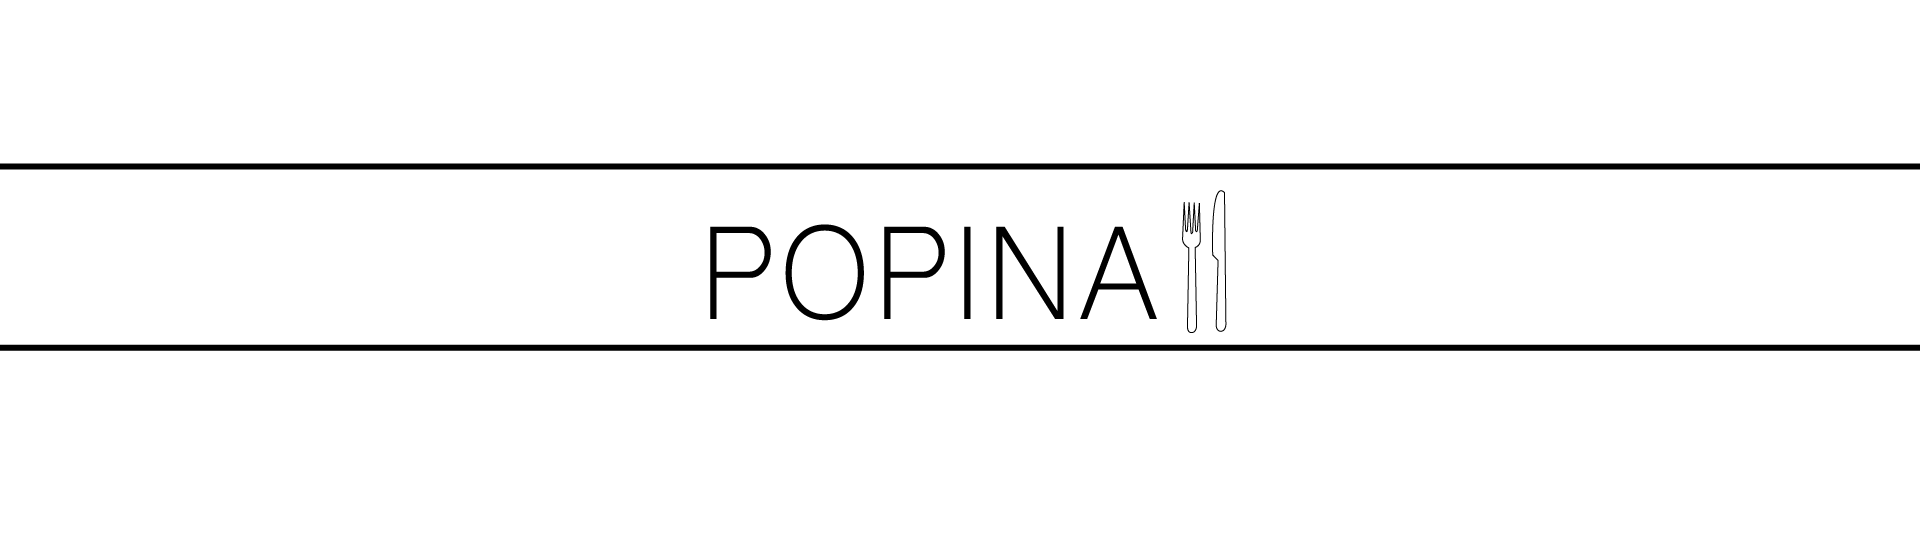
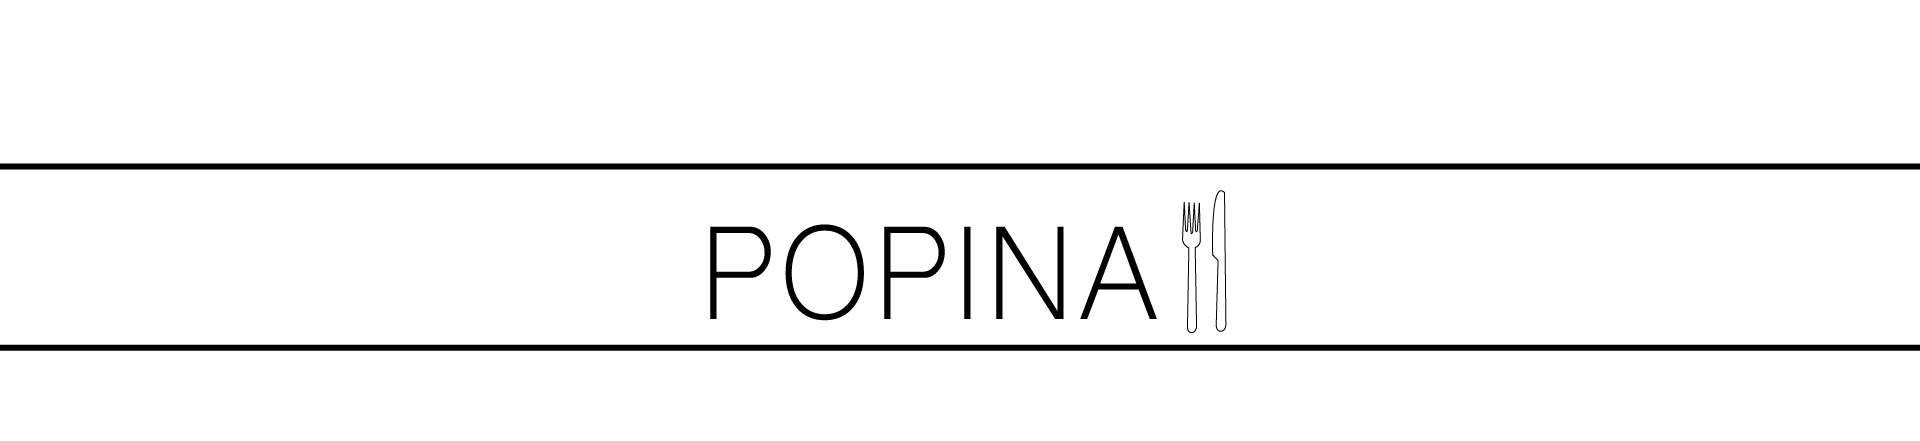
knapper og style

Changed region(s): [[0.0, 0.3537, 1.0, 0.737], [0.0, 0.7664, 1.0, 0.7959], [0.0, 0.2948, 1.0, 0.3243]]

diff --git a/script.js b/script.js
@@ -1,18 +1,18 @@
 document.addEventListener("DOMContentLoaded", start);
 const url = "https://spreadsheets.google.com/feeds/list/1IkL13--O3Ree1nbc8UssMo-qGr_9FG60RnvlRYirgdk/od6/public/values?alt=json";
 let alleData;
-let filter = "alle";
+let filter = "forside";
 
 function start() {
     const filterKnapper = document.querySelectorAll("nav button");
-    filterKnapper.forEach(knap => knap.addEventListener("click", filtrerKategorier));
+    filterKnapper.forEach(knap => knap.addEventListener("click", filtrerAlleData));
     document.querySelector("#detalje").style.display = "none";
     skjulDetalje();
     loadData();
 }
 
-function filtrerKategorier() {
-    filter = this.dataset.kategori;
+function filtrerAlleData() {
+    filter = this.dataset.data;
     document.querySelector(".valgt").classList.remove("valgt");
     this.classList.add("valgt");
     vis();
@@ -30,7 +30,7 @@ function vis() {
     const dest = document.querySelector("#mad-liste");
     dest.textContent = "";
     alleData.feed.entry.forEach(data => {
-        if (data.gsx$kategori.$t == filter || filter == "alle") {
+        if (data.gsx$kategori.$t == filter || filter == "forside") {
 
             //klone skabelon
             const klon = skabelon.cloneNode(true);
@@ -40,17 +40,15 @@ function vis() {
             h2.textContent = data.gsx$navn.$t;
 
             const img = klon.querySelector("img");
-            img.src = "billeder/" + data.gsx$billede.$t + ".jpg";
-            img.src = "billeder/" + data.gsx$billede.$t + ".png";
-            img.alt = "Billede af " + data.gsx$navn.$t;
+            img.src = "billeder/" + data.gsx$billede.$t + "";
+            img.src = "billeder/" + data.gsx$billede.$t + "";
+            img.alt = "Billede af" + data.gsx$navn.$t;
 
             const p1 = klon.querySelector("p");
             const p2 = klon.querySelector("p + p");
             const p3 = klon.querySelector("p + p + p");
             const p4 = klon.querySelector("p + p + p + p");
-            p1.textContent = " Pris " + data.gsx$adresse.$t + ",-";
-            p2.textContent += " " + data.gsx$kort.$t;
-            p3.textContent += " Oprindelse: " + data.gsx$bedømmelse.$t;
+
 
             dest.appendChild(klon);
 
@@ -69,11 +67,16 @@ function visDetalje(data) {
     document.querySelector("#detalje .luk").addEventListener("click", skjulDetalje);
 
     document.querySelector("#detalje h2").textContent = data.gsx$navn.$t;
-    document.querySelector("#detalje img").src = "billeder/" + data.gsx$billede.$t + ".jpg";
-    document.querySelector("#detalje img").src = "billeder/" + data.gsx$billede.$t + ".png";
+
+    document.querySelector("#detalje img").src = "billeder/" + data.gsx$billede.$t;
     document.querySelector("#detalje img").alt = `Portræt af ${data.gsx$billede.$t}`;
 
     document.querySelector("#detalje p").textContent = data.gsx$lang.$t;
+
+
+    p1.textContent = " Pris " + data.gsx$adresse.$t + ",-";
+    p2.textContent += " " + data.gsx$kort.$t;
+    p3.textContent += " " + data.gsx$bedømmelse.$t;
     //p4.textContent += " lang " + kategori.gsx$lang.$t;
     //document.querySelector("#detalje p4").textContent = kategori.gsx$lang.$t;
 

diff --git a/style.css b/style.css
@@ -1,56 +1,72 @@
-body {
-    margin: 0;
-}
-
 section {
     display: grid;
     grid-template-columns: repeat(auto-fill, minmax(300px, 1fr));
-    grid-gap: 0.5rem;
-    padding: 25px 100px 25px 100px;
+    grid-gap: 2rem;
 }
 
 article img {
     width: 100%;
 }
 
-nav {
+nav {}
+
+/*Nav*/
+header nav button:link {
+    color: #f5bfd8;
+}
+
+/*visited link*/
+header nav button:visited {
+    color: #f5bfd8;
+}
+
+/* Hover */
+header nav button:hover {
+    color: #f5bfd8;
+}
+
+header nav {
+    flex-direction: row;
+    justify-content: space-between;
     text-align: center;
-    padding: 15px;
+
+}
+
+header nav button {
+    font-family: 'oswald', sans-serif;
+    font-size: 1.5rem;
+    margin: 0 1rem;
+    text-decoration: none;
+}
+
+button {
+    font-size: 1.5rem;
+    padding: 0;
+    border: 0;
+    font-family: sans-serif;
+
 }
 
 h1 {
     text-align: center;
     font-family: sans-serif;
     font-size: 3rem;
-    color: #b93939;
+    font-weight: normal;
 }
 
-h2 {
-    font-family: sans-serif;
-    font-size: 1.5rem;
-}
-
-p {
-    font-family: sans-serif;
-    font-size: 1rem;
-}
-
-button {
-    border-radius: 25px;
-    padding: 5px;
-    font-size: 1rem;
-    margin: 6px;
-    width: 100px;
-}
-
-.kategori {
+.data {
     margin: 5px;
     padding: 5px;
-    background-color: white;
 }
 
 .valgt {
-    background-color: rgb(185, 57, 57);
+    color: #f5bfd8;
+
+}
+
+.tekst {
+    text-align: center;
+
 }
 
 #detalje {
@@ -59,16 +75,14 @@ button {
     left: 0;
     width: 100vw;
     height: 100vh;
-    background: rgba(244, 236, 226, 0.64);
     overflow: scroll;
     display: none;
-
-
+    background: rgba(128, 128, 128, 0.63);
 }
 
 #detalje p {
-    max-width: 450px;
-    align-content: center;
+    max-width: 400px;
+
 }
 
 #detalje .luk {
@@ -78,7 +92,7 @@ button {
     font-size: 4rem;
 }
 
-#detalje .kategori {
+#detalje .data {
     width: 60vw;
     min-height: 50vh;
     margin: 4rem auto;
@@ -86,11 +100,11 @@ button {
     background: white;
 }
 
-#splash {
-    background-image: url(billeder/popina.png);
-    background-size: 100%;
-    width: 100%;
-    height: 25vh;
+
+#splash img {
+    width: 100vw;
+    height: 50vh;
+    background-size: cover;
     max-width: none;
-    align-content: center;
+
 }

diff --git a/index.html b/index.html
@@ -10,32 +10,32 @@
 
 <body>
     <section id="splash">
+        <img src="billeder/popina.png">
     </section>
-    <nav>
-        <button data-data="forside" class="valgt">Forside</button>
-        <button data-data="asiatisk">Asiatisk</button>
-        <button data-data="bistro">Bistro</button>
-        <button data-data="burger">Burger</button>
-        <button data-data="cafe">Café</button>
-        <button data-data="fransk">Fransk</button>
-        <button data-data="italiensk">Italiensk</button>
-        <button data-data="mexi">Mexi</button>
-        <button data-data="nordisk">Nordisk</button>
-        <button data-data="street">Street</button>
-
-    </nav>
-
+    <header>
+        <nav>
+            <button data-data="forside" class="valgt">Forside</button>
+            <button data-data="Asiatisk">Asiatisk</button>
+            <button data-data="Bistro">Bistro</button>
+            <button data-data="Burger">Burger</button>
+            <button data-data="Café">Café</button>
+            <button data-data="Fransk">Fransk</button>
+            <button data-data="Italiensk">Italiensk</button>
+            <button data-data="Mexikansk">Mexi</button>
+            <button data-data="Nordisk">Nordisk</button>
+            <button data-data="Street food">Street</button>
+        </nav>
+    </header>
+    <div class="tekst">
+        <h1>Velkommen</h1>
+        <p>Her er din guide til lækre spisesteder i København.</p>
+        <p>Vi har håndplukket de bedste kulinariske madoplevelser til hver en smag.</p>
+        <p>Velbekomme. </p>
+    </div>
     <template>
         <article class="data">
             <h2>Navn</h2>
             <img class="profil-billede">
-            <div class="indhold">
-                <p></p>
-                <p></p>
-                <p></p>
-            </div>
-
-
         </article>
     </template>
 
@@ -47,10 +47,17 @@
             <div class="lang">
                 <p></p>
             </div>
+            <div class="indhold">
+                <p></p>
+                <p></p>
+                <p></p>
+            </div>
             <img src="billeder/" alt="">
 
         </article>
     </section>
 
     <script src="script.js"></script>
-</body></html>
+</body>
+
+</html>
